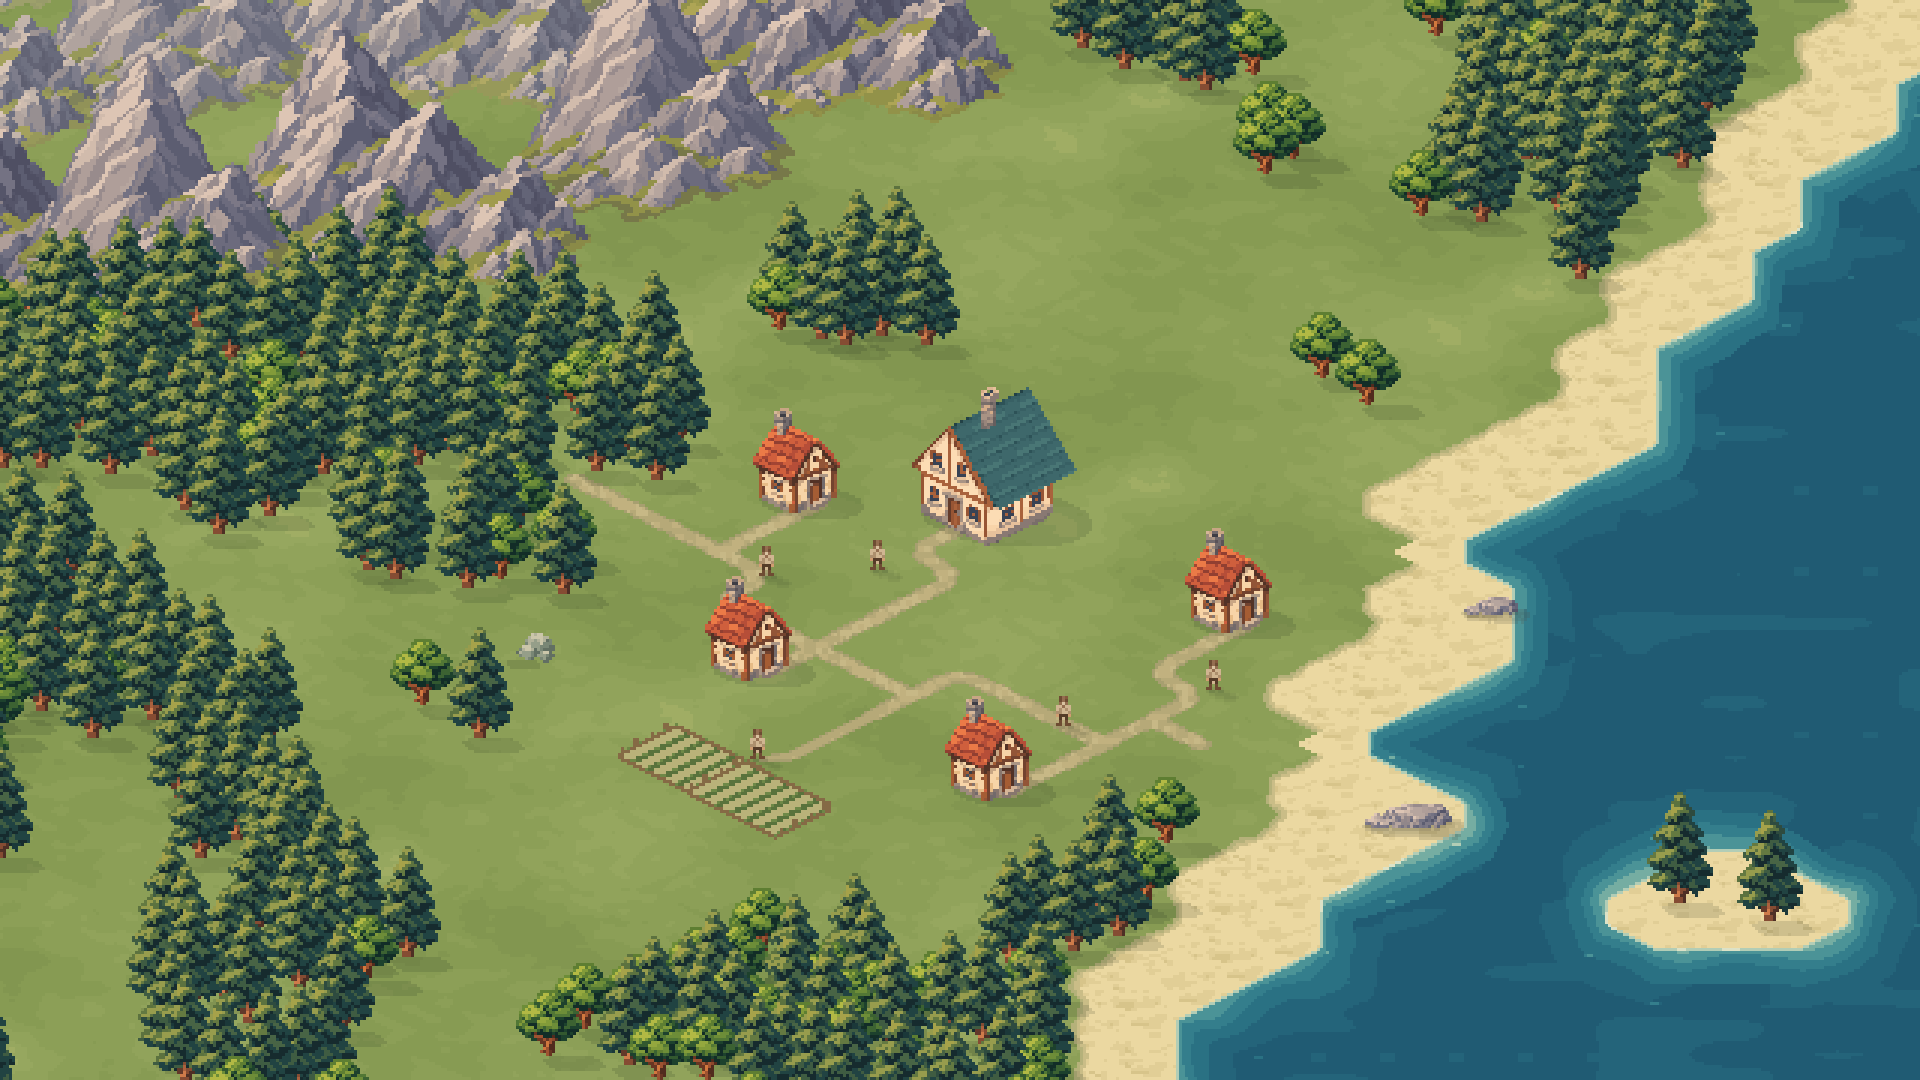
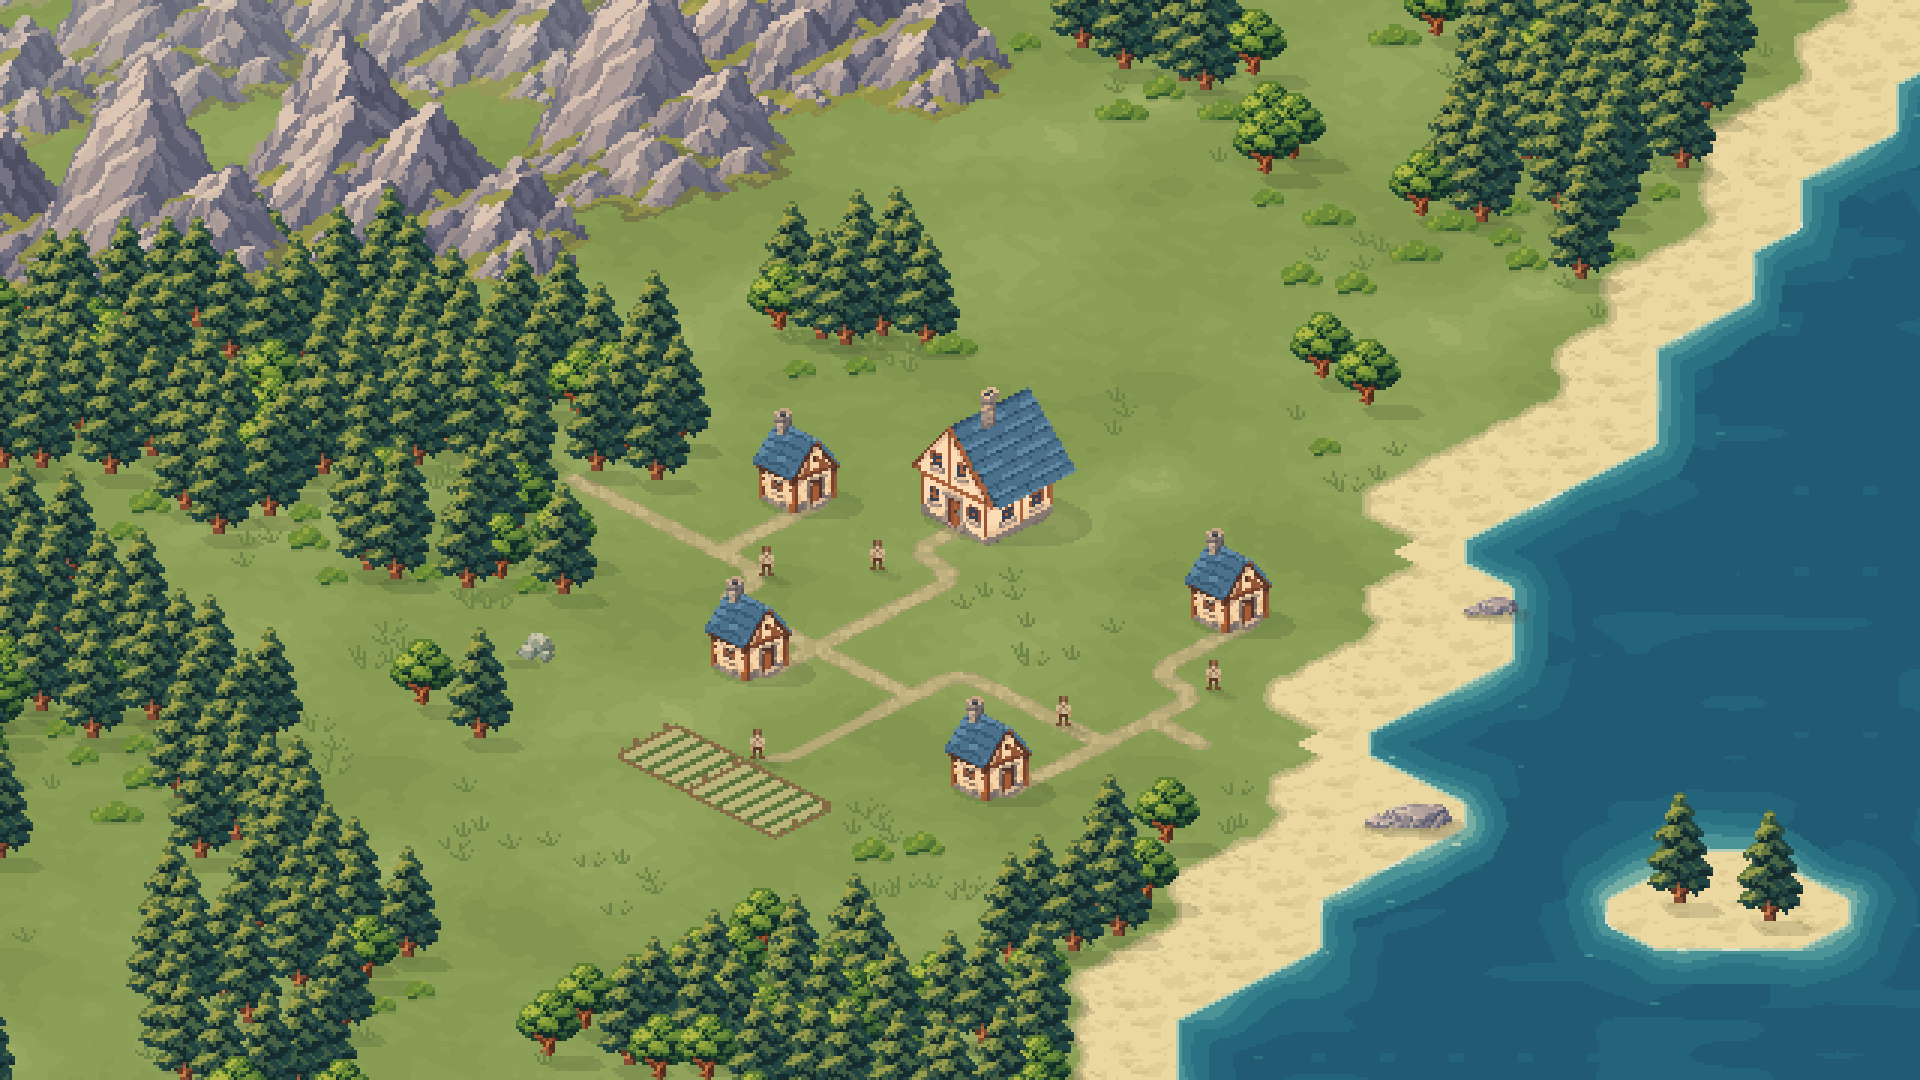
refine(map): add undergrowth and unify blue roof palette

diff --git a/index.html b/index.html
@@ -12,7 +12,7 @@
   <link rel="stylesheet" href="styles/projects/shimanami.css?v=compact-tile-coordinates">
   <link rel="stylesheet" href="styles/project-details.css?v=plain-project-headings">
   <link rel="stylesheet" href="styles/projects/idea2strategy.css?v=uniform-project-visuals">
-  <script src="scripts/app.js?v=miniworld-forest-20261123-v12" defer></script>
+  <script src="scripts/app.js?v=miniworld-undergrowth-blue-20261123-v13" defer></script>
   <script src="scripts/idea2strategy/harness-flow.js?v=parallel-harness-flow" defer></script>
   <script type="module" src="scripts/shinjuku/traffic-view.js?v=attached-signal-status"></script>
   <script src="scripts/shinjuku/traffic-comparisons.js?v=distance-only-readout" defer></script>
@@ -311,14 +311,14 @@
        <h4 id="pm-map-title">Miniworld용 리소스 제작</h4>
        <p>해안가 마을에 쓸 집과 나무, 산맥을 만들었습니다. 정해진 픽셀 크기로 변환해 Unity 테스트 맵에 배치하고, 모래 해변과 밭 진입로, 대상의 발밑 그림자를 함께 다듬었습니다.</p>
        <div class="pm-map-assets" aria-label="새로 제작한 픽셀 리소스">
-        <figure><div><img src="assets/pixel-mat/miniworld-showcase/house.png?v=20261123" width="96" height="120" alt="지붕과 문틀을 정리한 붉은 지붕의 32×40 픽셀 집" loading="lazy"></div><figcaption>집 <span>32×40px</span></figcaption></figure>
+        <figure><div><img src="assets/pixel-mat/miniworld-showcase/house.png?v=20261123-blue-v13" width="96" height="120" alt="지붕과 문틀을 정리한 푸른 지붕의 32×40 픽셀 집" loading="lazy"></div><figcaption>집 <span>32×40px</span></figcaption></figure>
         <figure><div><img src="assets/pixel-mat/miniworld-showcase/pine.png" width="72" height="120" alt="Pixel Mat으로 변환한 24×40 픽셀 침엽수" loading="lazy"></div><figcaption>침엽수 <span>24×40px</span></figcaption></figure>
        </div>
        <p class="pm-map-note">PNG와 편집 프로젝트를 함께 저장하고, 실제 Unity 캡처의 원본 크기와 확대 화면에서 연결부를 확인했습니다.</p>
       </div>
       <figure class="pm-map-capture">
-       <button type="button" class="image-button pm-map-image" data-gallery="pixel-mat-map" aria-label="Unity 리소스 배치 화면 크게 보기"><img src="assets/pixel-mat/miniworld-showcase/coastal-map.png?v=20261123-forest-v12" width="1920" height="1080" alt="후방 산맥, 모래 해변과 섬, 밭으로 이어지는 길과 그림자를 다듬은 Unity 테스트 맵의 실제 카메라 캡처" loading="lazy"><span class="screenshot-expand" aria-hidden="true">크게 보기 ↗</span></button>
-       <figcaption><span>제작한 리소스를 배치한 Unity 테스트 맵</span><a class="pm-map-open" href="assets/pixel-mat/miniworld-showcase/map.html?v=20261123-forest-v12" target="_blank" rel="noopener noreferrer">지도 확대·이동 <span aria-hidden="true">↗</span></a></figcaption>
+       <button type="button" class="image-button pm-map-image" data-gallery="pixel-mat-map" aria-label="Unity 리소스 배치 화면 크게 보기"><img src="assets/pixel-mat/miniworld-showcase/coastal-map.png?v=20261123-undergrowth-blue-v13" width="1920" height="1080" alt="푸른 지붕의 집과 덤불·풀, 숲과 해변을 배치한 Unity 테스트 맵의 실제 카메라 캡처" loading="lazy"><span class="screenshot-expand" aria-hidden="true">크게 보기 ↗</span></button>
+       <figcaption><span>제작한 리소스를 배치한 Unity 테스트 맵</span><a class="pm-map-open" href="assets/pixel-mat/miniworld-showcase/map.html?v=20261123-undergrowth-blue-v13" target="_blank" rel="noopener noreferrer">지도 확대·이동 <span aria-hidden="true">↗</span></a></figcaption>
       </figure>
      </section>
     </section>

diff --git a/assets/pixel-mat/miniworld-showcase/map.html b/assets/pixel-mat/miniworld-showcase/map.html
@@ -15,7 +15,7 @@
   <nav aria-label="지도 보기 조절"><button id="fit" type="button">전체 보기</button><button id="native" type="button">100%</button><button id="minus" type="button" aria-label="지도 축소">−</button><span id="zoom" aria-label="현재 확대 배율">100%</span><button id="plus" type="button" aria-label="지도 확대">+</button></nav>
  </header>
  <main><canvas id="map" tabindex="0" aria-label="Miniworld 지도. 휠로 확대하고 드래그로 이동합니다. 방향키로 이동하고 더하기와 빼기 키로 확대와 축소할 수 있습니다."></canvas><div id="message">지도를 불러오는 중…</div></main>
- <footer><p>휠 · 두 손가락으로 확대 / 드래그 · 방향키로 이동</p><p><a href="../../../#pixel-mat">포트폴리오로 돌아가기</a> · <a href="coastal-map.png?v=20261123-forest-v12" target="_blank" rel="noopener noreferrer">전체 이미지</a></p></footer>
+ <footer><p>휠 · 두 손가락으로 확대 / 드래그 · 방향키로 이동</p><p><a href="../../../#pixel-mat">포트폴리오로 돌아가기</a> · <a href="coastal-map.png?v=20261123-undergrowth-blue-v13" target="_blank" rel="noopener noreferrer">전체 이미지</a></p></footer>
  <script>
  const canvas=document.querySelector('#map'),ctx=canvas.getContext('2d'),box=canvas.parentElement,mapImage=new Image(),message=document.querySelector('#message'),zoomLabel=document.querySelector('#zoom');
  let W=0,H=0,scale=1,tx=0,ty=0,ready=false,gesture=null;const pointers=new Map();
@@ -24,7 +24,7 @@
  function fit(){scale=Math.max(.25,Math.min((W-24)/640,(H-24)/360));tx=(W-640*scale)/2;ty=(H-360*scale)/2;draw();}
  function zoom(x,y,factor){const next=Math.max(.25,Math.min(12,scale*factor));tx=x-(x-tx)*next/scale;ty=y-(y-ty)*next/scale;scale=next;draw();}
  function resize(){W=box.clientWidth;H=box.clientHeight;canvas.width=Math.round(W*devicePixelRatio);canvas.height=Math.round(H*devicePixelRatio);fit();}
- mapImage.onload=()=>{ready=true;message.hidden=true;message.style.display='none';draw();};mapImage.onerror=()=>{message.textContent='지도를 불러오지 못했습니다. 페이지를 새로고침해 주세요.';};mapImage.src='coastal-map-native.png?v=20261123-forest-v12';
+ mapImage.onload=()=>{ready=true;message.hidden=true;message.style.display='none';draw();};mapImage.onerror=()=>{message.textContent='지도를 불러오지 못했습니다. 페이지를 새로고침해 주세요.';};mapImage.src='coastal-map-native.png?v=20261123-undergrowth-blue-v13';
  canvas.addEventListener('wheel',event=>{event.preventDefault();const r=canvas.getBoundingClientRect();zoom(event.clientX-r.left,event.clientY-r.top,Math.exp(-event.deltaY*.0015));},{passive:false});
  canvas.addEventListener('pointerdown',event=>{canvas.setPointerCapture(event.pointerId);pointers.set(event.pointerId,[event.clientX,event.clientY]);gesture=null;});
  canvas.addEventListener('pointermove',event=>{if(!pointers.has(event.pointerId))return;const old=pointers.get(event.pointerId);pointers.set(event.pointerId,[event.clientX,event.clientY]);if(pointers.size===1){tx+=event.clientX-old[0];ty+=event.clientY-old[1];draw();}else{const p=[...pointers.values()],d=Math.hypot(p[0][0]-p[1][0],p[0][1]-p[1][1]),r=canvas.getBoundingClientRect(),x=(p[0][0]+p[1][0])/2-r.left,y=(p[0][1]+p[1][1])/2-r.top;if(gesture&&gesture.d>0){tx+=x-gesture.x;ty+=y-gesture.y;zoom(x,y,d/gesture.d);}gesture={x,y,d};}});

diff --git a/scripts/app.js b/scripts/app.js
@@ -165,7 +165,7 @@ dialog.addEventListener('close',()=>{
 });
 const gallery={
  'pixel-mat-editor':['pixel-mat/editor.png','Pixel Mat / Windows 편집기'],
- 'pixel-mat-map':['pixel-mat/miniworld-showcase/coastal-map.png?v=20261123-forest-v12','Miniworld용 리소스 / Unity 배치 테스트'],
+ 'pixel-mat-map':['pixel-mat/miniworld-showcase/coastal-map.png?v=20261123-undergrowth-blue-v13','Miniworld용 리소스 / Unity 배치 테스트'],
 
  'shimanami-exhibition':['shimanami/exhibition.webp','Shimanami Ekranoplan / 무사시노미술대학 전시 현장'],
  shinjuku:['shinjuku/street.webp','Shinjuku Live Street / 실제 플레이 화면'],
